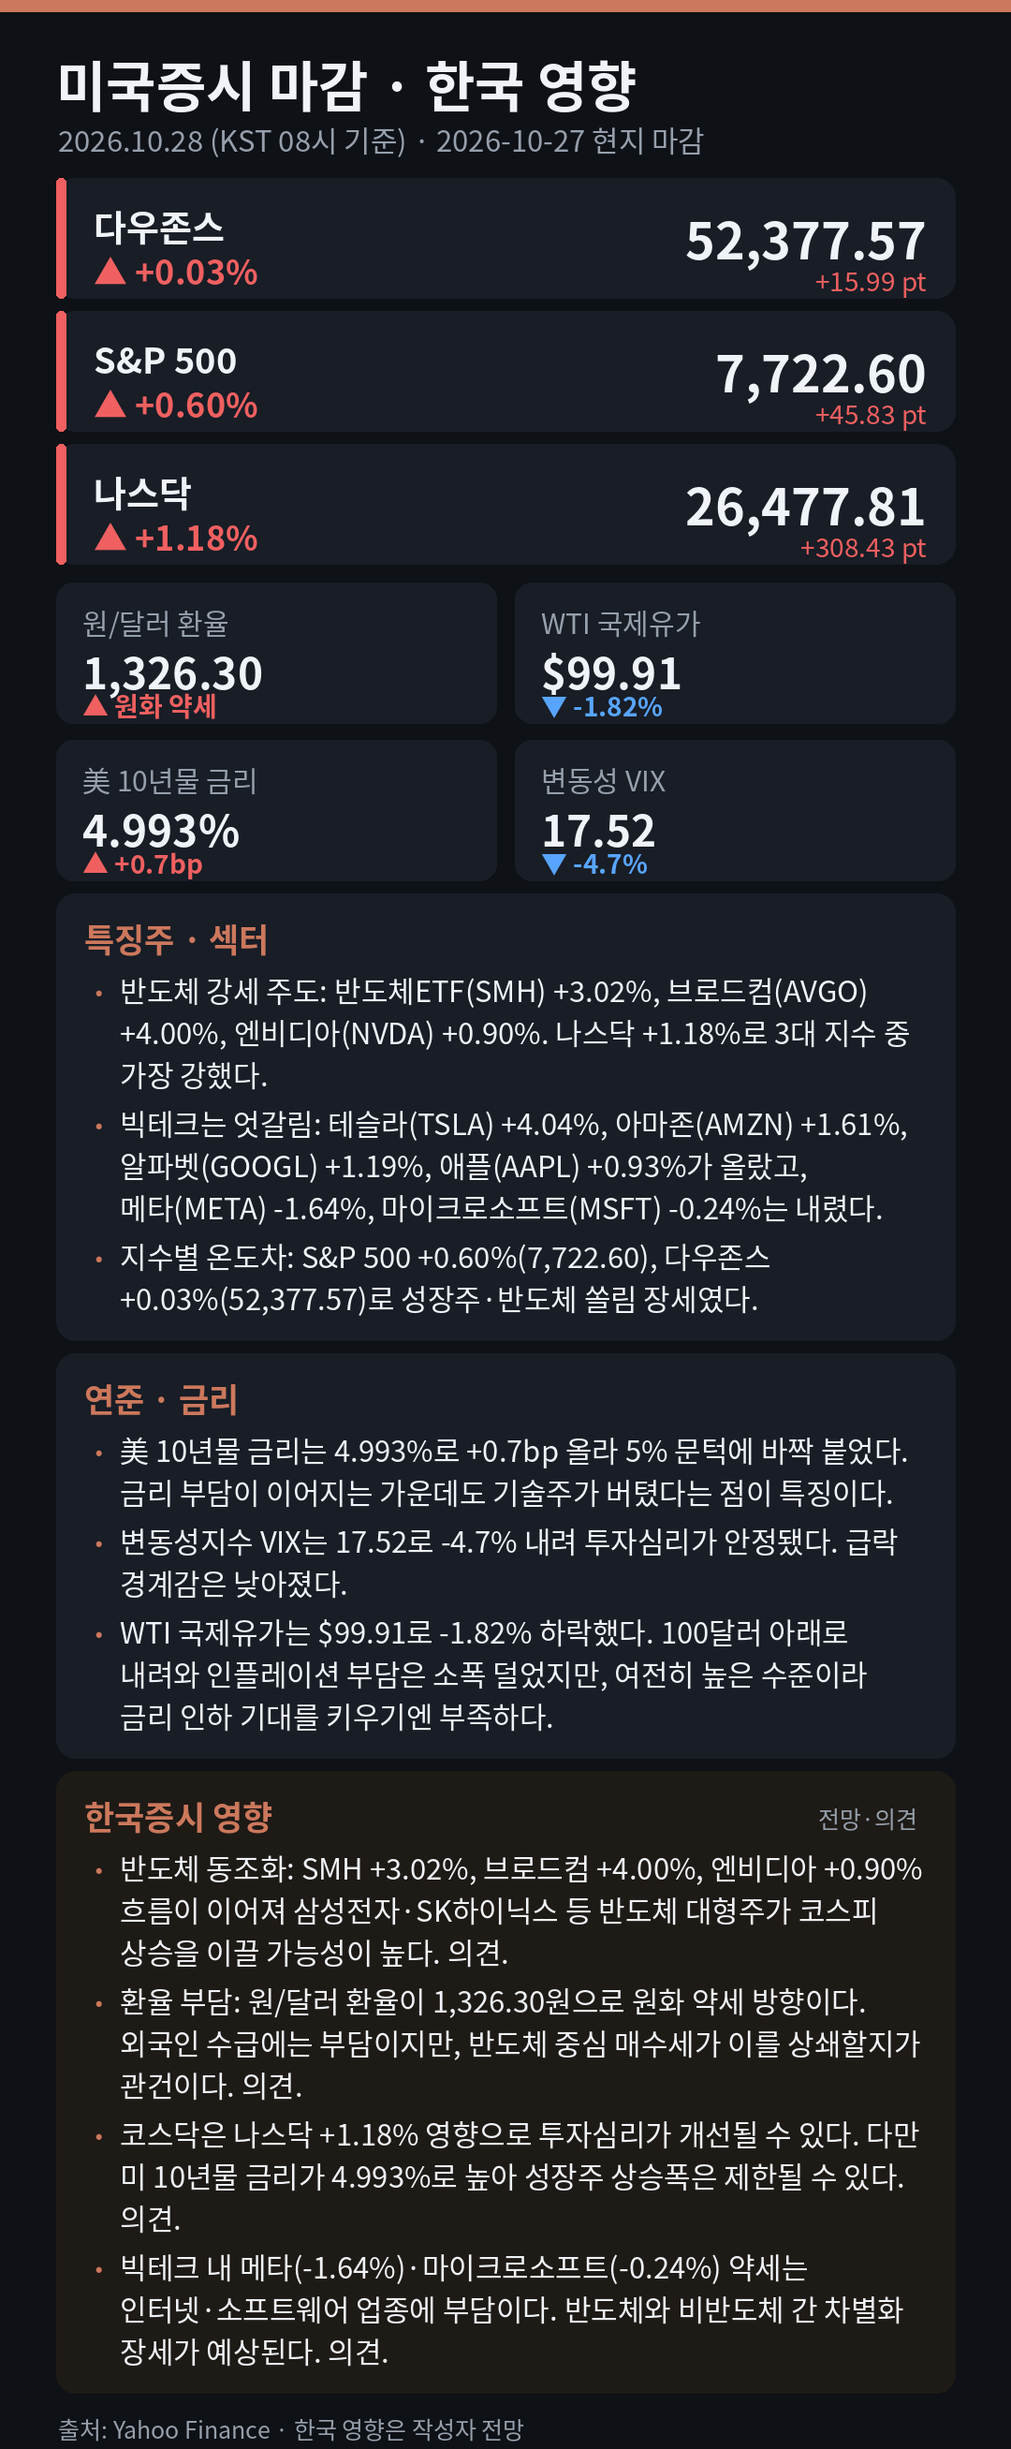
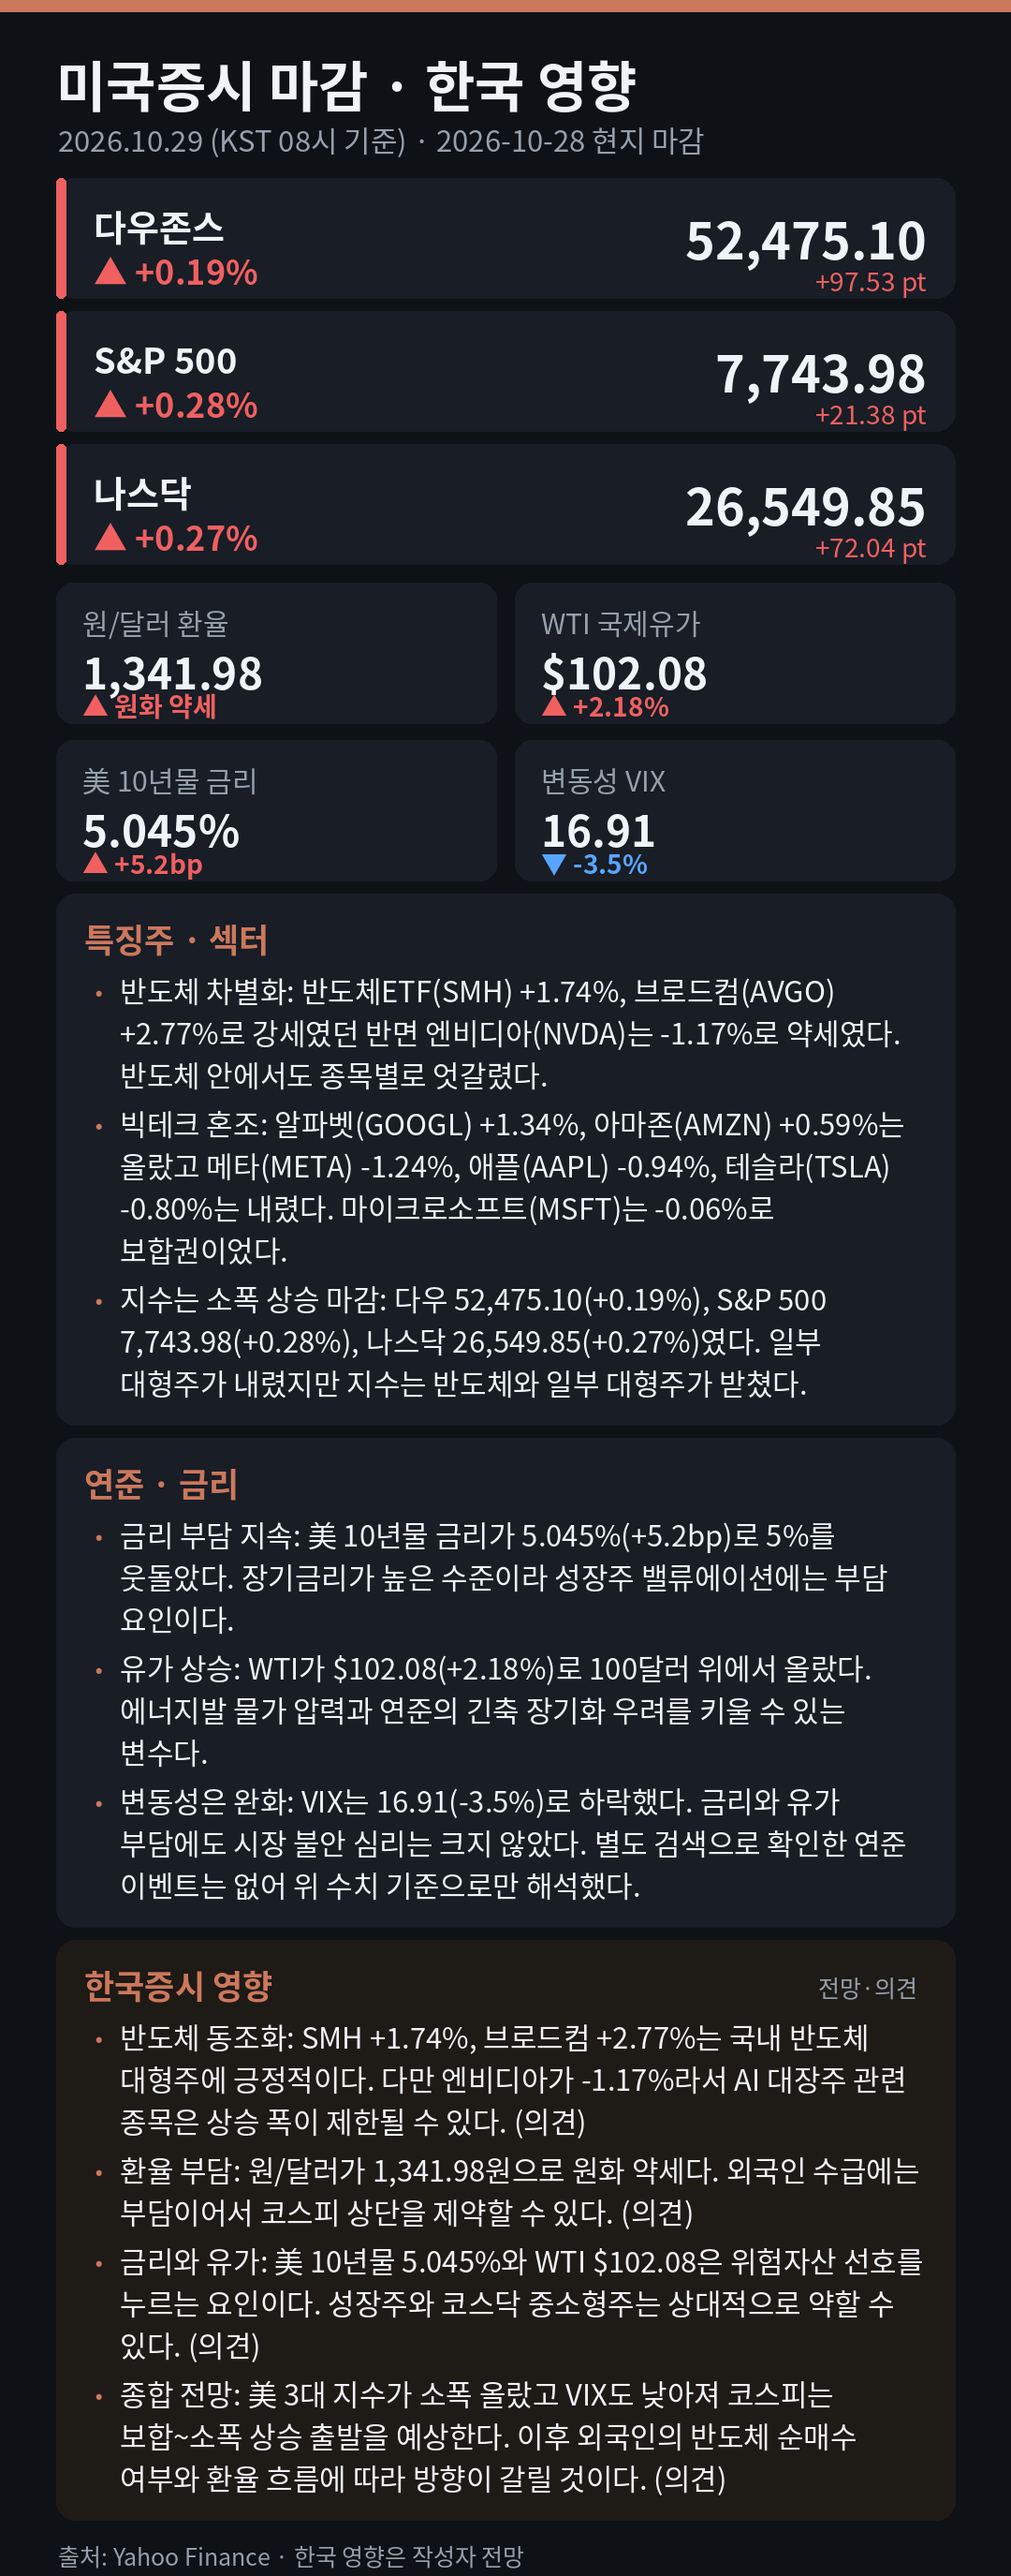
브리핑 2026-10-28 자동 발행

diff --git a/index.html b/index.html
@@ -14,8 +14,8 @@ a{color:#58a5ff;text-decoration:none} .s{color:#8a93a0;font-size:12px;float:righ
 </style></head><body><div class="wrap">
 <h1>미국증시 마감 브리핑</h1>
 <p class="sub">매일 아침(KST 08:02) 자동 업데이트 · 숫자는 Yahoo Finance 기준, 한국 영향은 전망</p>
-<img class="card" src="img/2026-10-27.png?v=2026-10-27" alt="2026-10-27 미국증시 마감"><p class="d">2026-10-27 현지 마감</p>
+<img class="card" src="img/2026-10-28.png?v=2026-10-28" alt="2026-10-28 미국증시 마감"><p class="d">2026-10-28 현지 마감</p>
 <h2>지난 브리핑</h2>
-<ul><li><a href="img/2026-10-27.png">2026-10-27</a> <span class="s">다우존스 +0.03% · S&P 500 +0.60% · 나스닥 +1.18%</span></li><li><a href="img/2026-10-26.png">2026-10-26</a> <span class="s">다우존스 +0.28% · S&P 500 +0.70% · 나스닥 +0.82%</span></li><li><a href="img/2026-10-23.png">2026-10-23</a> <span class="s">다우존스 -1.23% · S&P 500 -0.52% · 나스닥 -0.21%</span></li><li><a href="img/2026-10-22.png">2026-10-22</a> <span class="s">다우존스 +0.71% · S&P 500 -0.64% · 나스닥 -1.57%</span></li><li><a href="img/2026-10-21.png">2026-10-21</a> <span class="s">다우존스 +0.69% · S&P 500 +0.58% · 나스닥 +1.05%</span></li><li><a href="img/2026-10-20.png">2026-10-20</a> <span class="s">다우존스 +1.02% · S&P 500 +0.28% · 나스닥 -0.02%</span></li><li><a href="img/2026-10-19.png">2026-10-19</a> <span class="s">다우존스 -0.07% · S&P 500 +0.41% · 나스닥 +1.11%</span></li><li><a href="img/2026-10-16.png">2026-10-16</a> <span class="s">다우존스 -0.34% · S&P 500 -1.09% · 나스닥 -2.15%</span></li><li><a href="img/2026-10-15.png">2026-10-15</a> <span class="s">다우존스 +1.08% · S&P 500 +0.33% · 나스닥 +0.08%</span></li><li><a href="img/2026-10-14.png">2026-10-14</a> <span class="s">다우존스 -0.09% · S&P 500 -1.11% · 나스닥 -1.88%</span></li><li><a href="img/2026-10-13.png">2026-10-13</a> <span class="s">다우존스 -0.35% · S&P 500 -0.02% · 나스닥 -0.15%</span></li></ul>
+<ul><li><a href="img/2026-10-28.png">2026-10-28</a> <span class="s">다우존스 +0.19% · S&P 500 +0.28% · 나스닥 +0.27%</span></li><li><a href="img/2026-10-27.png">2026-10-27</a> <span class="s">다우존스 +0.03% · S&P 500 +0.60% · 나스닥 +1.18%</span></li><li><a href="img/2026-10-26.png">2026-10-26</a> <span class="s">다우존스 +0.28% · S&P 500 +0.70% · 나스닥 +0.82%</span></li><li><a href="img/2026-10-23.png">2026-10-23</a> <span class="s">다우존스 -1.23% · S&P 500 -0.52% · 나스닥 -0.21%</span></li><li><a href="img/2026-10-22.png">2026-10-22</a> <span class="s">다우존스 +0.71% · S&P 500 -0.64% · 나스닥 -1.57%</span></li><li><a href="img/2026-10-21.png">2026-10-21</a> <span class="s">다우존스 +0.69% · S&P 500 +0.58% · 나스닥 +1.05%</span></li><li><a href="img/2026-10-20.png">2026-10-20</a> <span class="s">다우존스 +1.02% · S&P 500 +0.28% · 나스닥 -0.02%</span></li><li><a href="img/2026-10-19.png">2026-10-19</a> <span class="s">다우존스 -0.07% · S&P 500 +0.41% · 나스닥 +1.11%</span></li><li><a href="img/2026-10-16.png">2026-10-16</a> <span class="s">다우존스 -0.34% · S&P 500 -1.09% · 나스닥 -2.15%</span></li><li><a href="img/2026-10-15.png">2026-10-15</a> <span class="s">다우존스 +1.08% · S&P 500 +0.33% · 나스닥 +0.08%</span></li><li><a href="img/2026-10-14.png">2026-10-14</a> <span class="s">다우존스 -0.09% · S&P 500 -1.11% · 나스닥 -1.88%</span></li></ul>
 <p class="foot">자동 생성 · Navis</p>
 </div></body></html>
